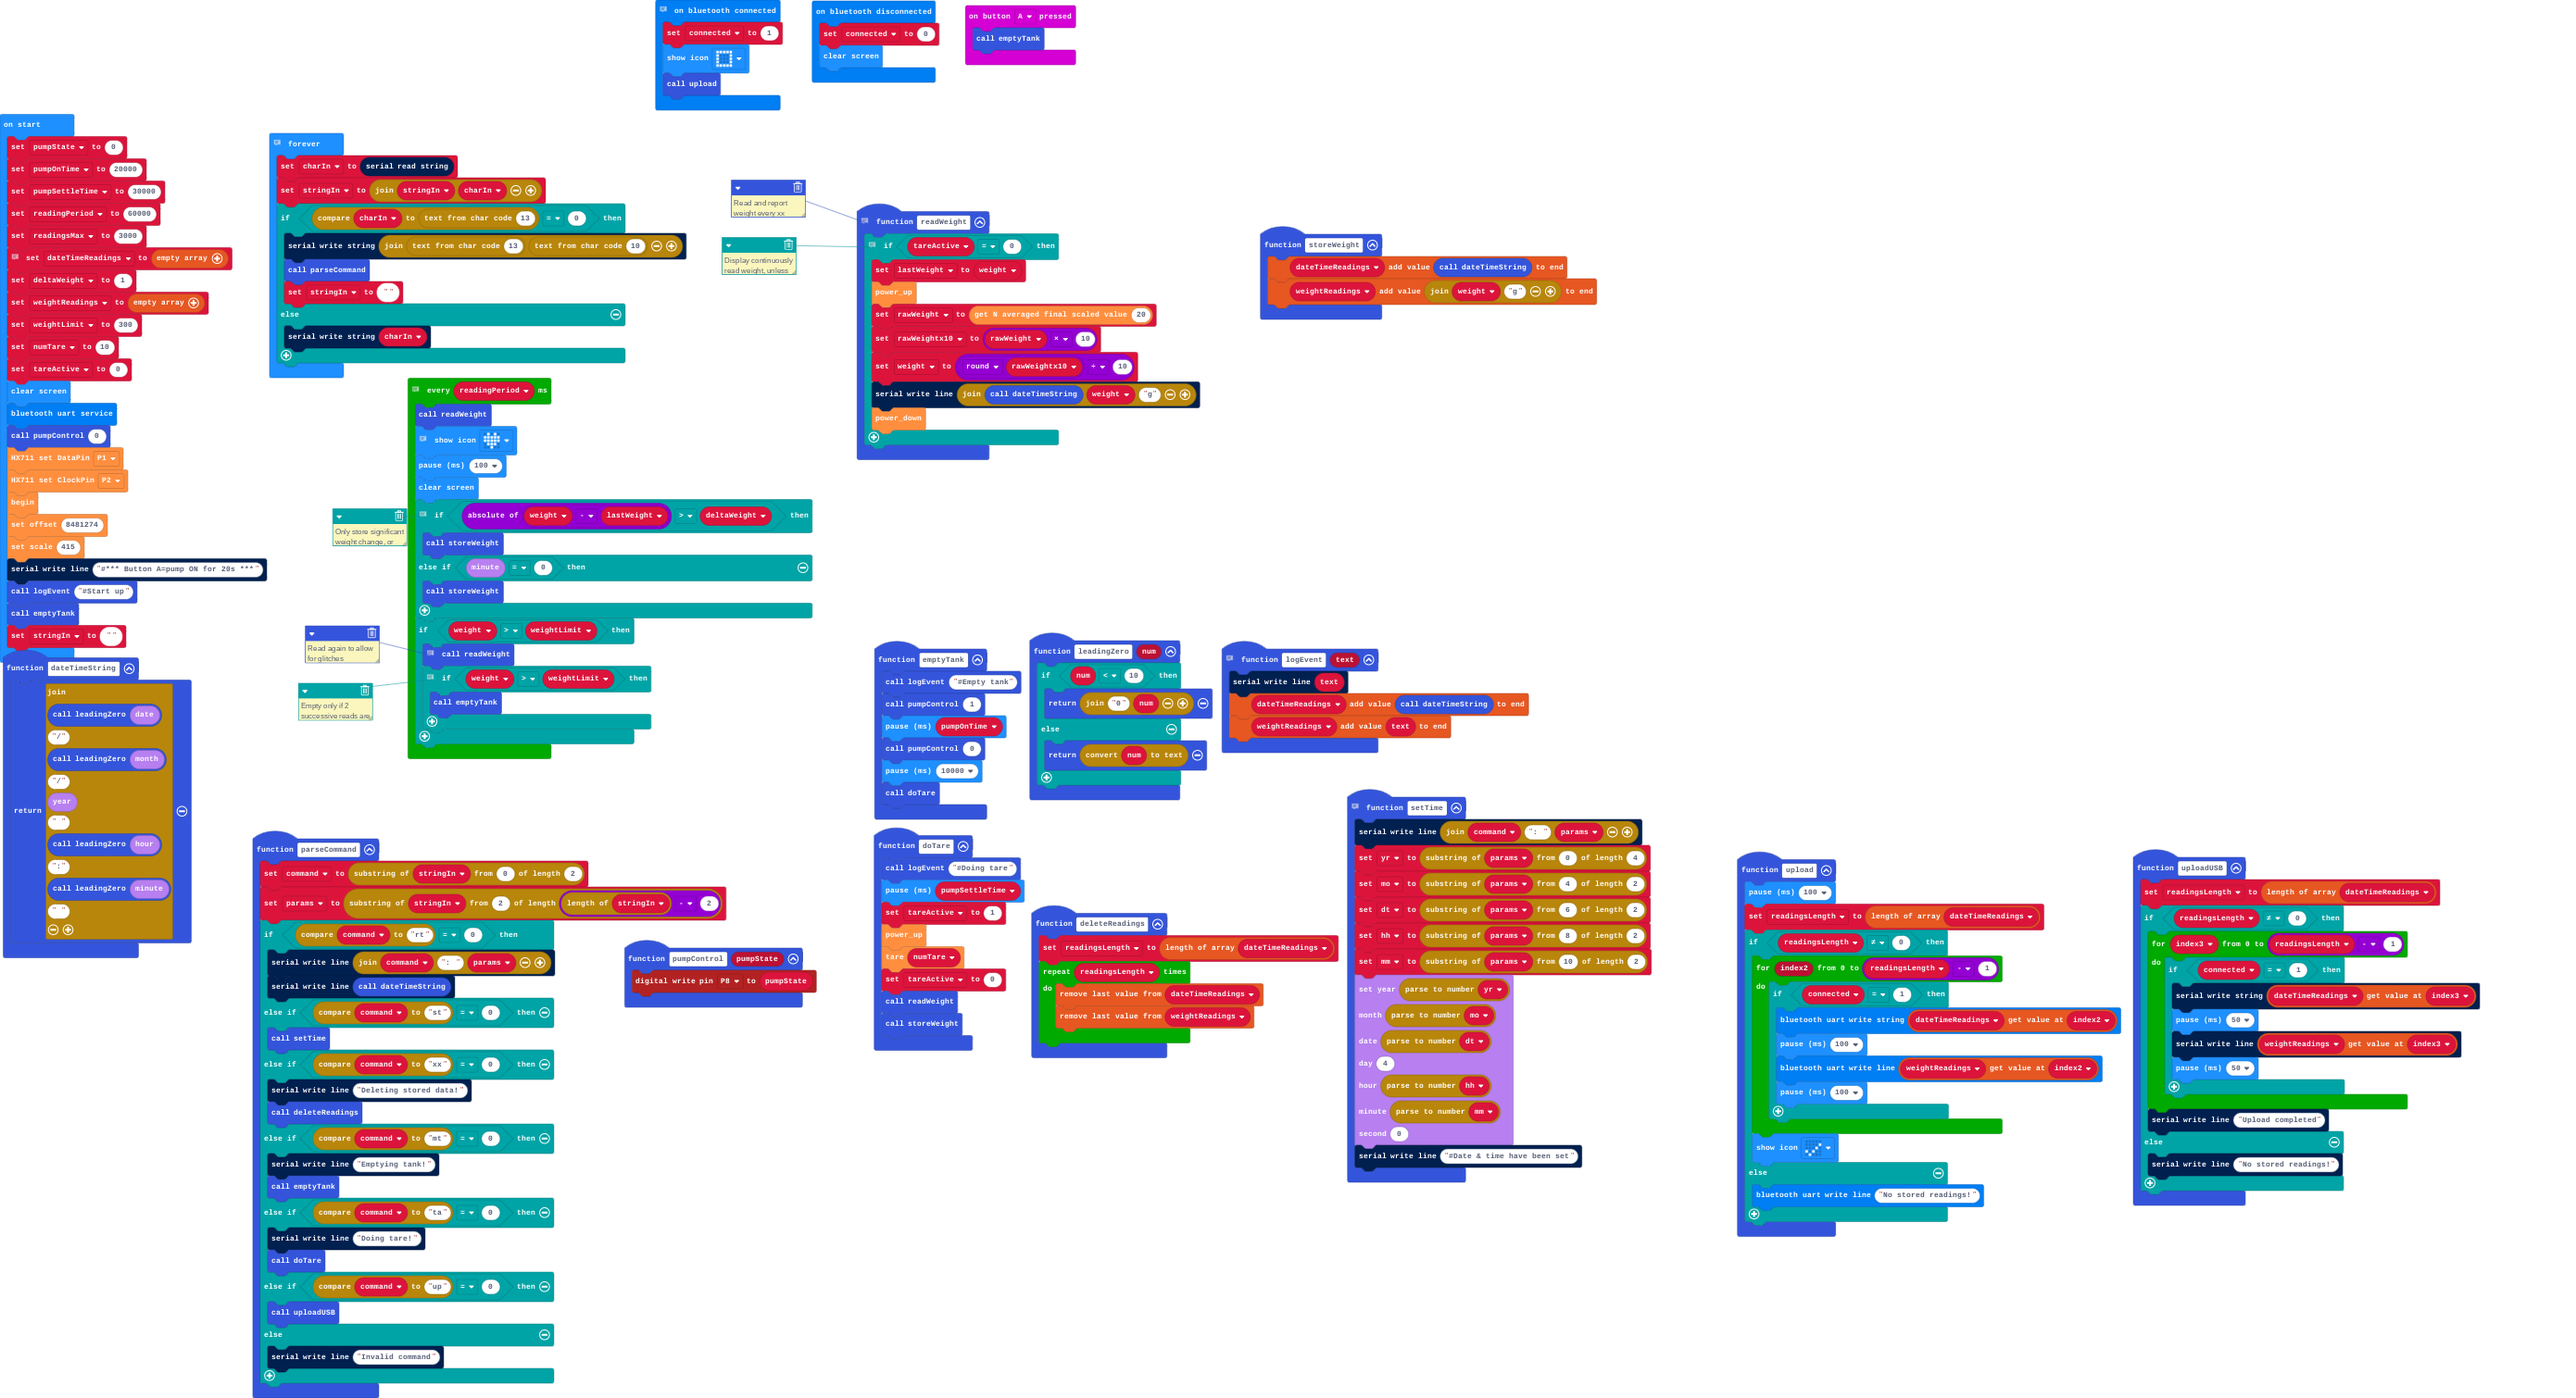
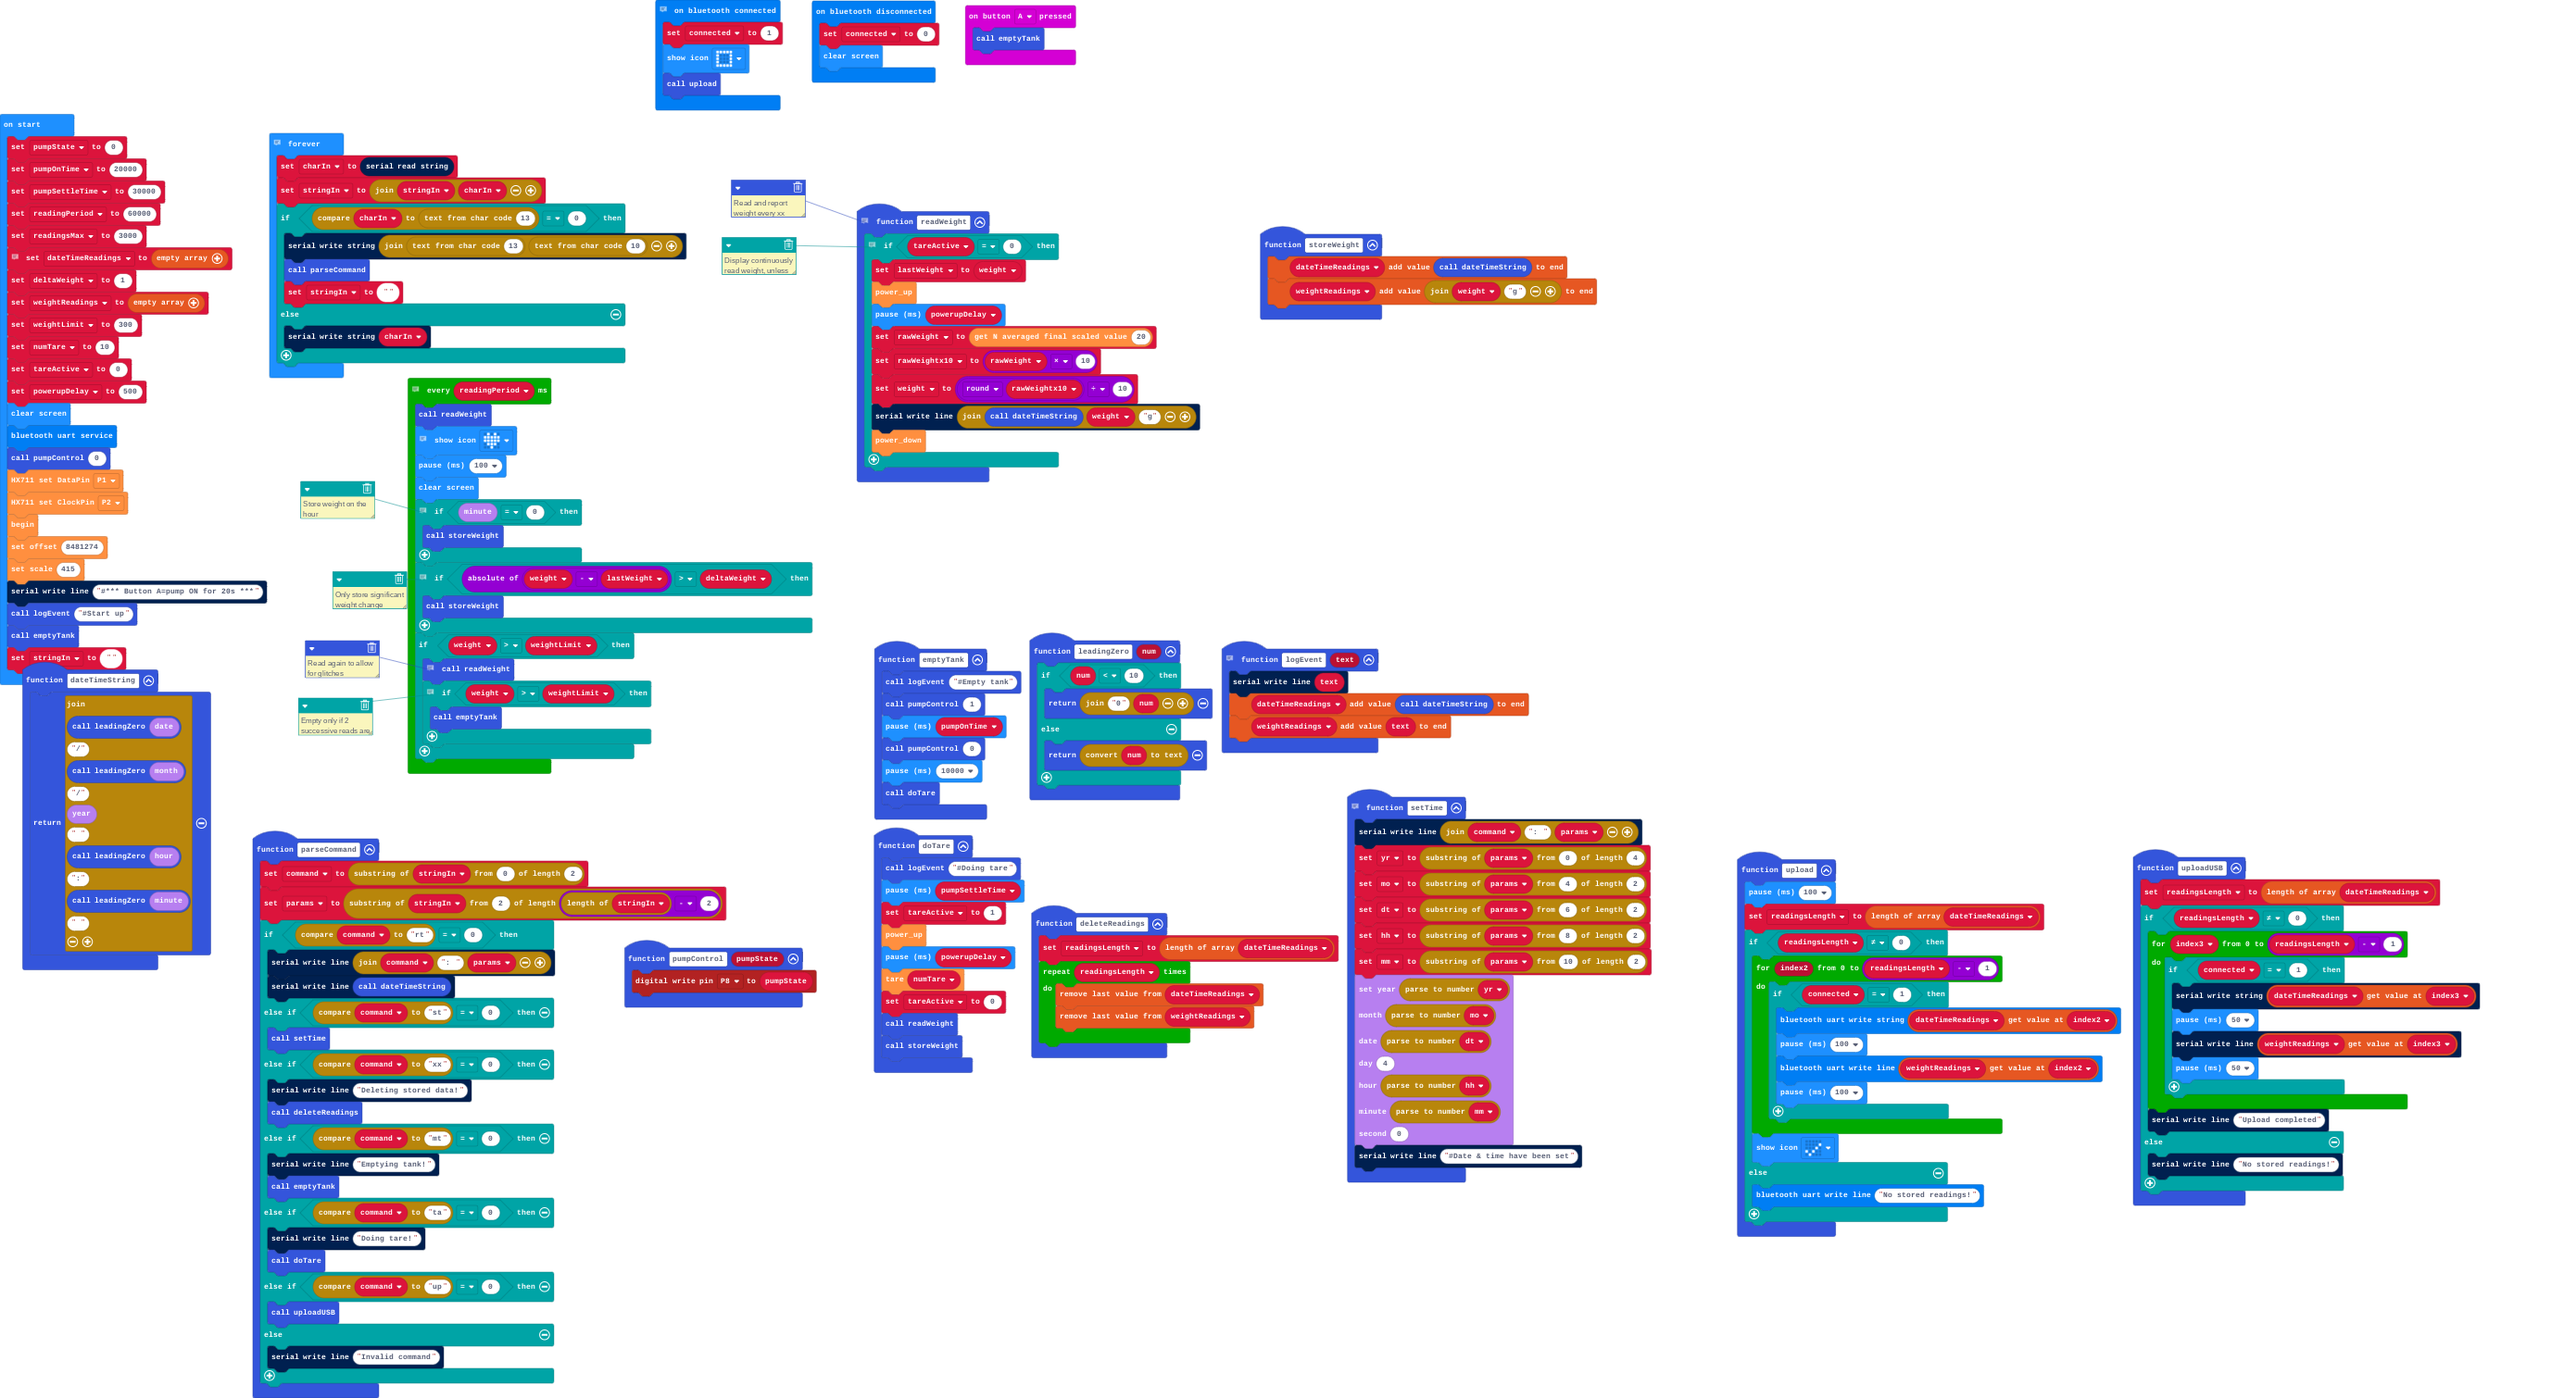
powerup delay, separate if block for hourly store weight

Changed region(s): [[0.0, 0.2179, 0.4639, 0.7159], [0.3402, 0.6536, 0.402, 0.7781]]

diff --git a/main.ts b/main.ts
@@ -3,6 +3,7 @@ function doTare () {
     basic.pause(pumpSettleTime)
     tareActive = 1
     HX711.power_up()
+    basic.pause(powerupDelay)
     HX711.tare(numTare)
     tareActive = 0
     readWeight()
@@ -67,6 +68,7 @@ function readWeight () {
     if (tareActive == 0) {
         lastWeight = weight
         HX711.power_up()
+        basic.pause(powerupDelay)
         rawWeight = HX711.get_units(20)
         rawWeightx10 = rawWeight * 10
         weight = Math.round(rawWeightx10) / 10
@@ -162,6 +164,7 @@ let readingsLength = 0
 let params = ""
 let command = ""
 let stringIn = ""
+let powerupDelay = 0
 let tareActive = 0
 let numTare = 0
 let weightReadings: string[] = []
@@ -180,6 +183,7 @@ weightReadings = []
 let weightLimit = 300
 numTare = 10
 tareActive = 0
+powerupDelay = 500
 basic.clearScreen()
 bluetooth.startUartService()
 pumpControl(0)
@@ -211,10 +215,12 @@ loops.everyInterval(readingPeriod, function () {
     basic.showIcon(IconNames.Heart)
     basic.pause(100)
     basic.clearScreen()
-    // Only store significant weight change, or when minutes=0 (hourly store)
-    if (Math.abs(weight - lastWeight) > deltaWeight) {
+    // Store weight on the hour
+    if (DS3231.minute() == 0) {
         storeWeight()
-    } else if (DS3231.minute() == 0) {
+    }
+    // Only store significant weight change
+    if (Math.abs(weight - lastWeight) > deltaWeight) {
         storeWeight()
     }
     if (weight > weightLimit) {
